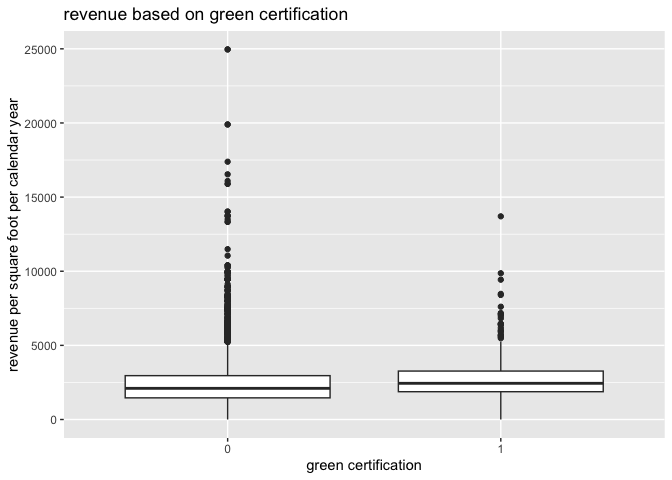
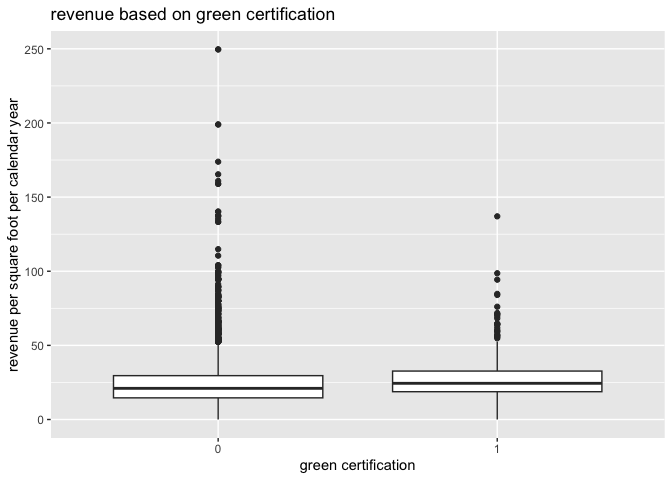
Final update

diff --git a/Exercise 3/Problem-Set-3.md b/Exercise 3/Problem-Set-3.md
@@ -106,39 +106,39 @@ and the larger the increase, the bigger the effect on crime.
 <tbody>
 <tr class="odd">
 <td style="text-align: left;">lm1 (baseline)</td>
-<td style="text-align: right;">19.81470</td>
+<td style="text-align: right;">24.31399</td>
 </tr>
 <tr class="even">
 <td style="text-align: left;">lm2</td>
-<td style="text-align: right;">19.85939</td>
+<td style="text-align: right;">24.49769</td>
 </tr>
 <tr class="odd">
 <td style="text-align: left;">lm3</td>
-<td style="text-align: right;">19.84933</td>
+<td style="text-align: right;">24.54582</td>
 </tr>
 <tr class="even">
 <td style="text-align: left;">dengue_tree1</td>
-<td style="text-align: right;">22.76814</td>
+<td style="text-align: right;">26.75693</td>
 </tr>
 <tr class="odd">
 <td style="text-align: left;">dengue_tree2</td>
-<td style="text-align: right;">22.85653</td>
+<td style="text-align: right;">27.37044</td>
 </tr>
 <tr class="even">
 <td style="text-align: left;">dengue_forest1</td>
-<td style="text-align: right;">18.79479</td>
+<td style="text-align: right;">24.82357</td>
 </tr>
 <tr class="odd">
 <td style="text-align: left;">dengue_boost1</td>
-<td style="text-align: right;">22.10252</td>
+<td style="text-align: right;">26.43118</td>
 </tr>
 <tr class="even">
 <td style="text-align: left;">dengue_boost2</td>
-<td style="text-align: right;">22.83235</td>
+<td style="text-align: right;">29.11797</td>
 </tr>
 <tr class="odd">
 <td style="text-align: left;">dengue_boost3</td>
-<td style="text-align: right;">22.88528</td>
+<td style="text-align: right;">29.16095</td>
 </tr>
 </tbody>
 </table>
@@ -162,15 +162,15 @@ models, one random forest, and three gradient-boosted models.
 <tbody>
 <tr class="odd">
 <td style="text-align: left;">dengue_tree1</td>
-<td style="text-align: right;">25.82768</td>
+<td style="text-align: right;">23.16345</td>
 </tr>
 <tr class="even">
 <td style="text-align: left;">dengue_forest1</td>
-<td style="text-align: right;">22.56781</td>
+<td style="text-align: right;">20.05019</td>
 </tr>
 <tr class="odd">
 <td style="text-align: left;">dengue_boost1</td>
-<td style="text-align: right;">25.05192</td>
+<td style="text-align: right;">22.24238</td>
 </tr>
 </tbody>
 </table>
@@ -280,10 +280,10 @@ selection, and building materials meet certain environmental benchmarks.
 
 To employ the data in our models, we should work on the data and modify
 some features. The “mutate” function is used to create (modify)
-columns: - “Revenue = leasing\_rate \* Rent”. - Through the “across”
-function, we apply “factor” to (renovated, class\_a, class\_b, LEED,
-Energystar, green\_rating, net, amenities), which will convert them to
-factors.
+columns: - “Revenue = leasing\_rate \* Rent / 100”. - Through the
+“across” function, we apply “factor” to (renovated, class\_a, class\_b,
+LEED, Energystar, green\_rating, net, amenities), which will convert
+them to factors.
 
 The “select” function is used to select columns from the data frame. In
 this case, the “-” sign is used to indicate that columns should be
@@ -296,7 +296,7 @@ independent variables.
 ![](Problem-Set-3_files/figure-markdown_strict/3.1-1.png)
 
     ## diffmean 
-    ##  320.519
+    ##  3.20519
 
  
 
@@ -322,7 +322,7 @@ are many irrelevant features in the data. To address this, we use
 ensemble methods such as random forests or gradient boosting, which
 combine the predictions of multiple trees to improve performance.
 
-    ## [1] 1012.857
+    ## [1] 9.537108
 
  
 
@@ -331,29 +331,36 @@ variables, and the second includes some features (City\_Market\_Rent ,
 age, size+ class\_a, class\_b, Electricity\_Costs, green\_rating) that
 seem to be effective on the dependent variable.
 
-    ## [1] 793.5497
+    ## [1] 7.590279
 
-    ## [1] 876.833
+    ## [1] 8.270924
 
 ![](Problem-Set-3_files/figure-markdown_strict/3.3-1.png)
 
  
 
-And finally, we used another ensemble method, Boosted trees.
+And finally, we used another ensemble method, Boosted trees. We apply
+this technique two times; in the first model, all independent variables
+are included; in the second model, we exclude some less related
+features.
 
-    ## [1] 986.8264
+    ## [1] 7.225139
+
+    ## [1] 6.87767
 
  
 
 ## Conclusion
 
 Our measure for comparing the results are their RMSEs. Based on the
-results of the simulations, the random forest model included all
-variable has the lowest out of the sample RMSE. The other random forest
-has the second-best result, which shows proves the better performance of
-the random forest comparing the other decision trees models. So, to
-predict the revenue per square foot per calendar year, we will apply the
-comprehensive random forest model.
+results of the simulations, the boosted tree with selected features has
+the lowest out of the sample RMSE. The other boosted tree has the
+second-best result, which shows the better performance of the boosted
+tree comparing the other decision tree models in this context. Of
+course, the result of both ensemble methods can improve the RMSEs,
+however, for our data, boosted tree works better. So, to predict the
+revenue per square foot per calendar year, we will apply the second
+boosted tree model.
 
 Back to the main question, how much does a green certificate affect
 profitability?
@@ -364,10 +371,6 @@ green certificate. At first, we can check this effect through
 ignore a variable, to human language it means that without any
 information about the status of a green certificate, the error of the
 predictions changes less than the other features.
-
-    ##   green_rating     yhat
-    ## 1            0 2398.287
-    ## 2            1 2433.065
 
 ![](Problem-Set-3_files/figure-markdown_strict/3.5-1.png)
 
